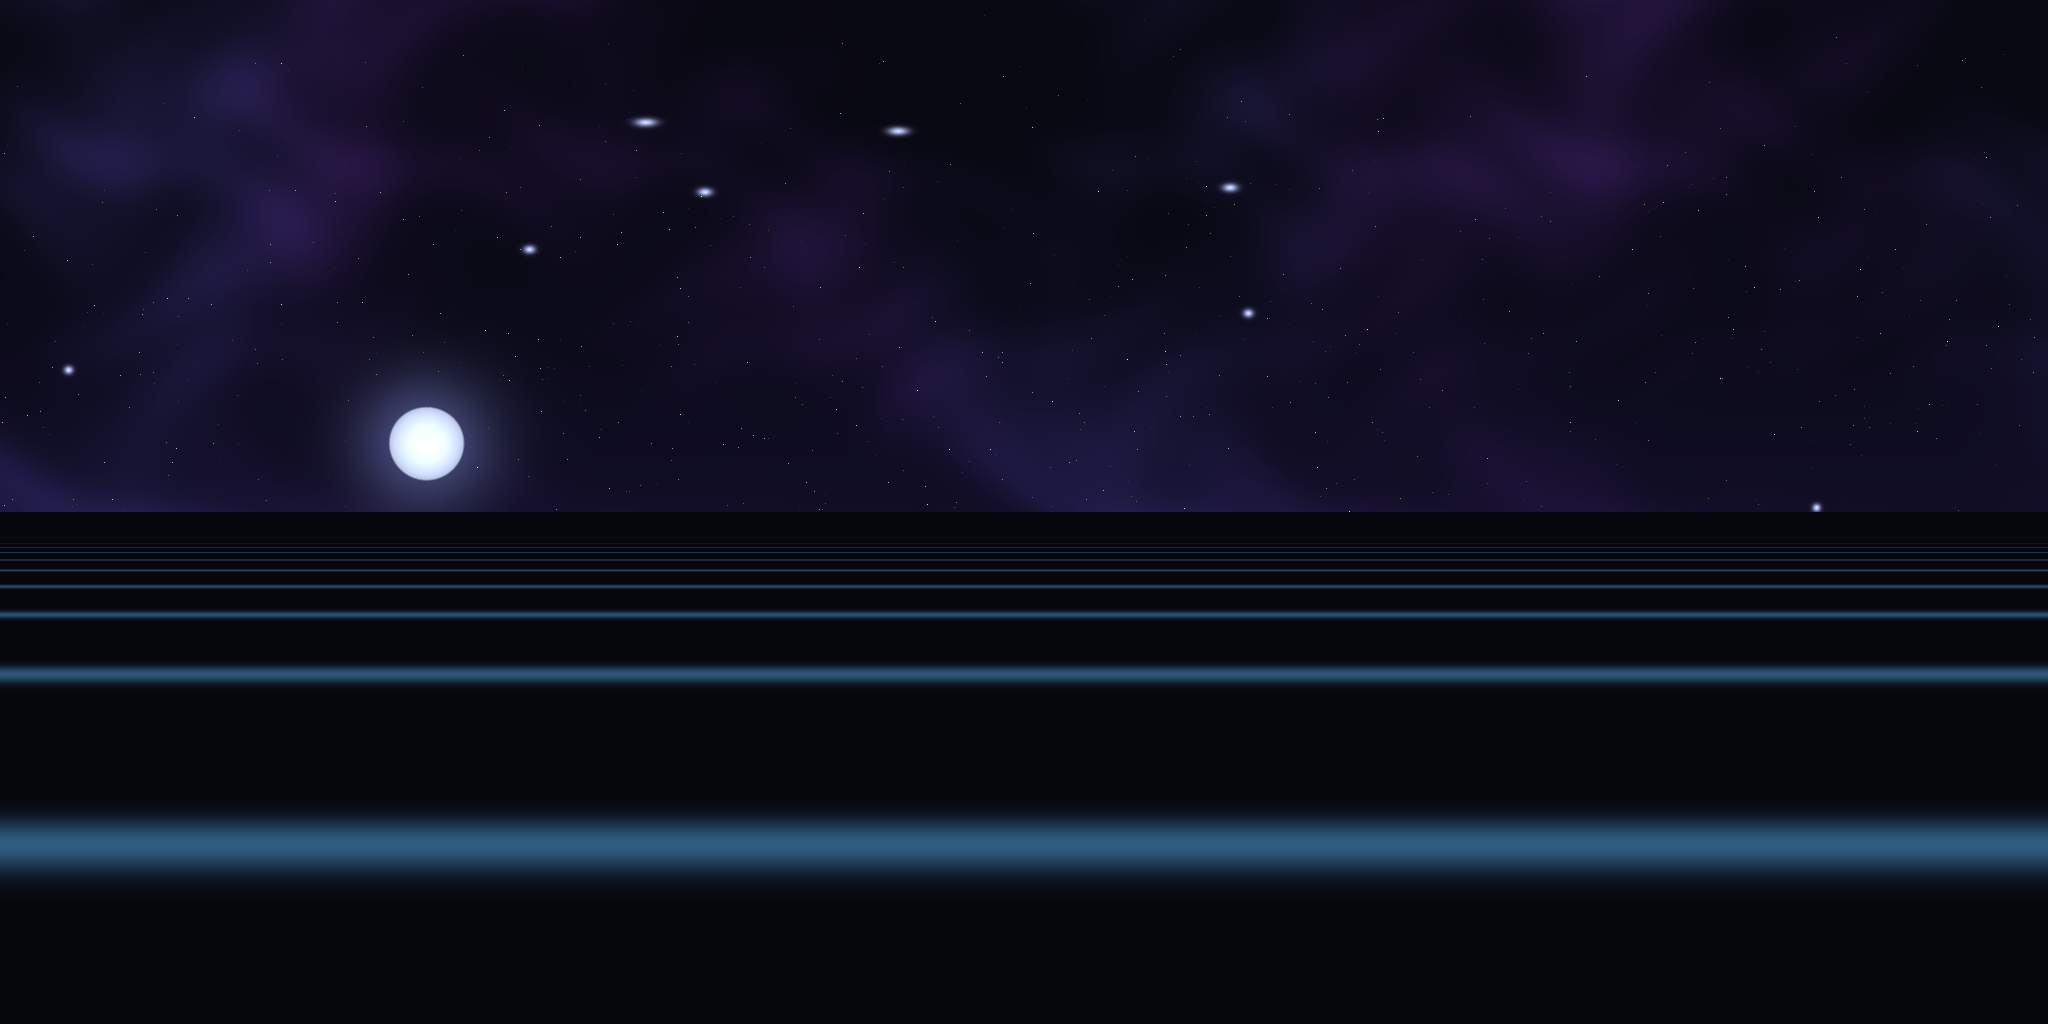
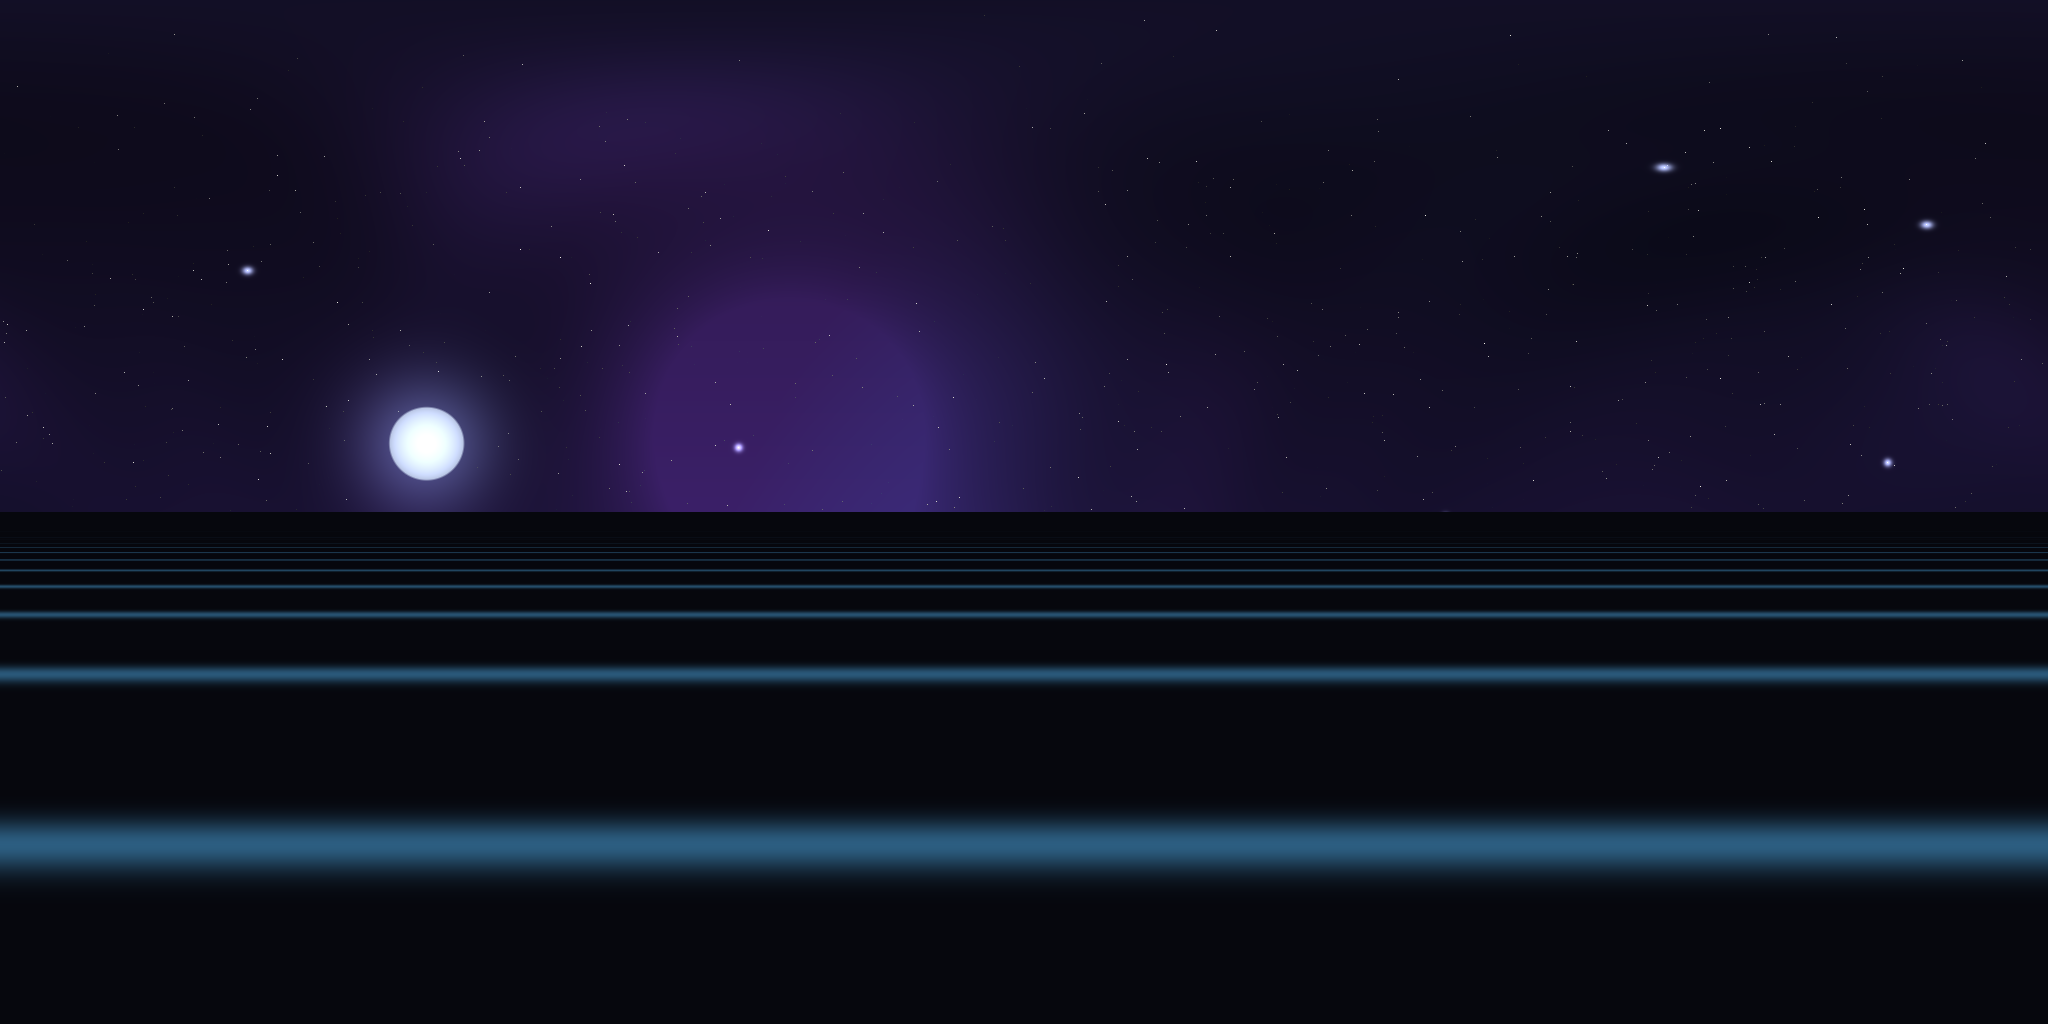
Fix the zenith pinch in the Void nebula
The nebula was built from longitude-based noise (sin(lon * freq)), so
every meridian converged to one point straight up and the pattern
pinwheeled into a pinch at the zenith. Regenerate it from 3D sphere
noise — a sum of plane waves sampled from the direction vector — which
is continuous over the whole sphere, poles included. Adds a reusable
sphere_noise() helper for future rooms.

diff --git a/make_panos.py b/make_panos.py
@@ -50,6 +50,27 @@ def angular_dist(lon, lat, t_lon, t_lat):
     return np.arccos(np.clip(dot, -1.0, 1.0))
 
 
+def sphere_noise(dx, dy, dz, rng, octaves=10, base_freq=1.4):
+    """Smooth noise sampled from the 3D direction, in roughly [-1, 1].
+
+    A sum of plane waves sin(k · dir + phase) with random directions k. Because
+    it is a function of the direction vector rather than of longitude/latitude,
+    it is continuous over the whole sphere — no pinch or seam at the poles,
+    unlike sin(lon * freq), where every meridian converges to one point.
+    """
+    acc = np.zeros_like(dx)
+    norm = 0.0
+    for i in range(octaves):
+        v = rng.normal(size=3)
+        v /= np.linalg.norm(v)
+        freq = base_freq * (1.7 ** (i % 4))
+        amp = 0.8 ** (i % 4)
+        proj = dx * v[0] + dy * v[1] + dz * v[2]
+        acc += amp * np.sin(proj * freq + rng.uniform(0.0, 2.0 * np.pi))
+        norm += amp
+    return acc / norm
+
+
 # ---------------------------------------------------------------------------
 # Rooms
 # ---------------------------------------------------------------------------
@@ -103,15 +124,17 @@ def void():
     up = np.clip(dy, 0.0, 1.0)
     img = np.array([7.0, 8.0, 16.0]) + np.array([10.0, 6.0, 22.0]) * (1.0 - up)[..., None]
 
-    # Nebula: a few octaves of cheap sine noise, squared into drifting patches.
-    n = np.zeros_like(lat)
-    for freq, amp in [(1.7, 1.0), (3.9, 0.5), (8.3, 0.25)]:
-        n += amp * np.sin(lon * freq + np.sin(lat * freq * 0.7) * 2.2) \
-                 * np.cos(lat * freq * 1.3 + np.sin(lon * freq) * 1.1)
-    n = np.clip(n * 0.4 + 0.35, 0.0, 1.0) ** 2.0
-    img += np.array([70.0, 30.0, 110.0]) * n[..., None] * 0.55
-    img += np.array([0.0, 60.0, 90.0]) * \
-        (n * np.clip(np.sin(lon * 2.0 + 1.0), 0.0, 1.0))[..., None] * 0.3
+    # Nebula: 3D sphere noise, turbulence-warped and squared into drifting
+    # patches. Sampling from the direction vector keeps it continuous straight
+    # up and down (longitude-based noise pinwheels into a point at the poles).
+    base = sphere_noise(dx, dy, dz, rng, octaves=12, base_freq=1.3)
+    warp = sphere_noise(dx, dy, dz, rng, octaves=6, base_freq=2.4)
+    n = base + 0.7 * warp * np.sin(base * 3.0)      # turbulence
+    n = np.clip(n * 0.9 + 0.42, 0.0, 1.0) ** 2.2
+    img += np.array([70.0, 30.0, 110.0]) * n[..., None] * 0.6
+    # A cooler streak, driven by a second field so it also stays pole-safe.
+    blue = np.clip(sphere_noise(dx, dy, dz, rng, octaves=5, base_freq=1.1) + 0.3, 0.0, 1.0)
+    img += np.array([0.0, 60.0, 90.0]) * (n * blue)[..., None] * 0.45
 
     # Stars, spread evenly over the sphere (uniform in sin(latitude), not in
     # latitude — otherwise they bunch up at the poles).